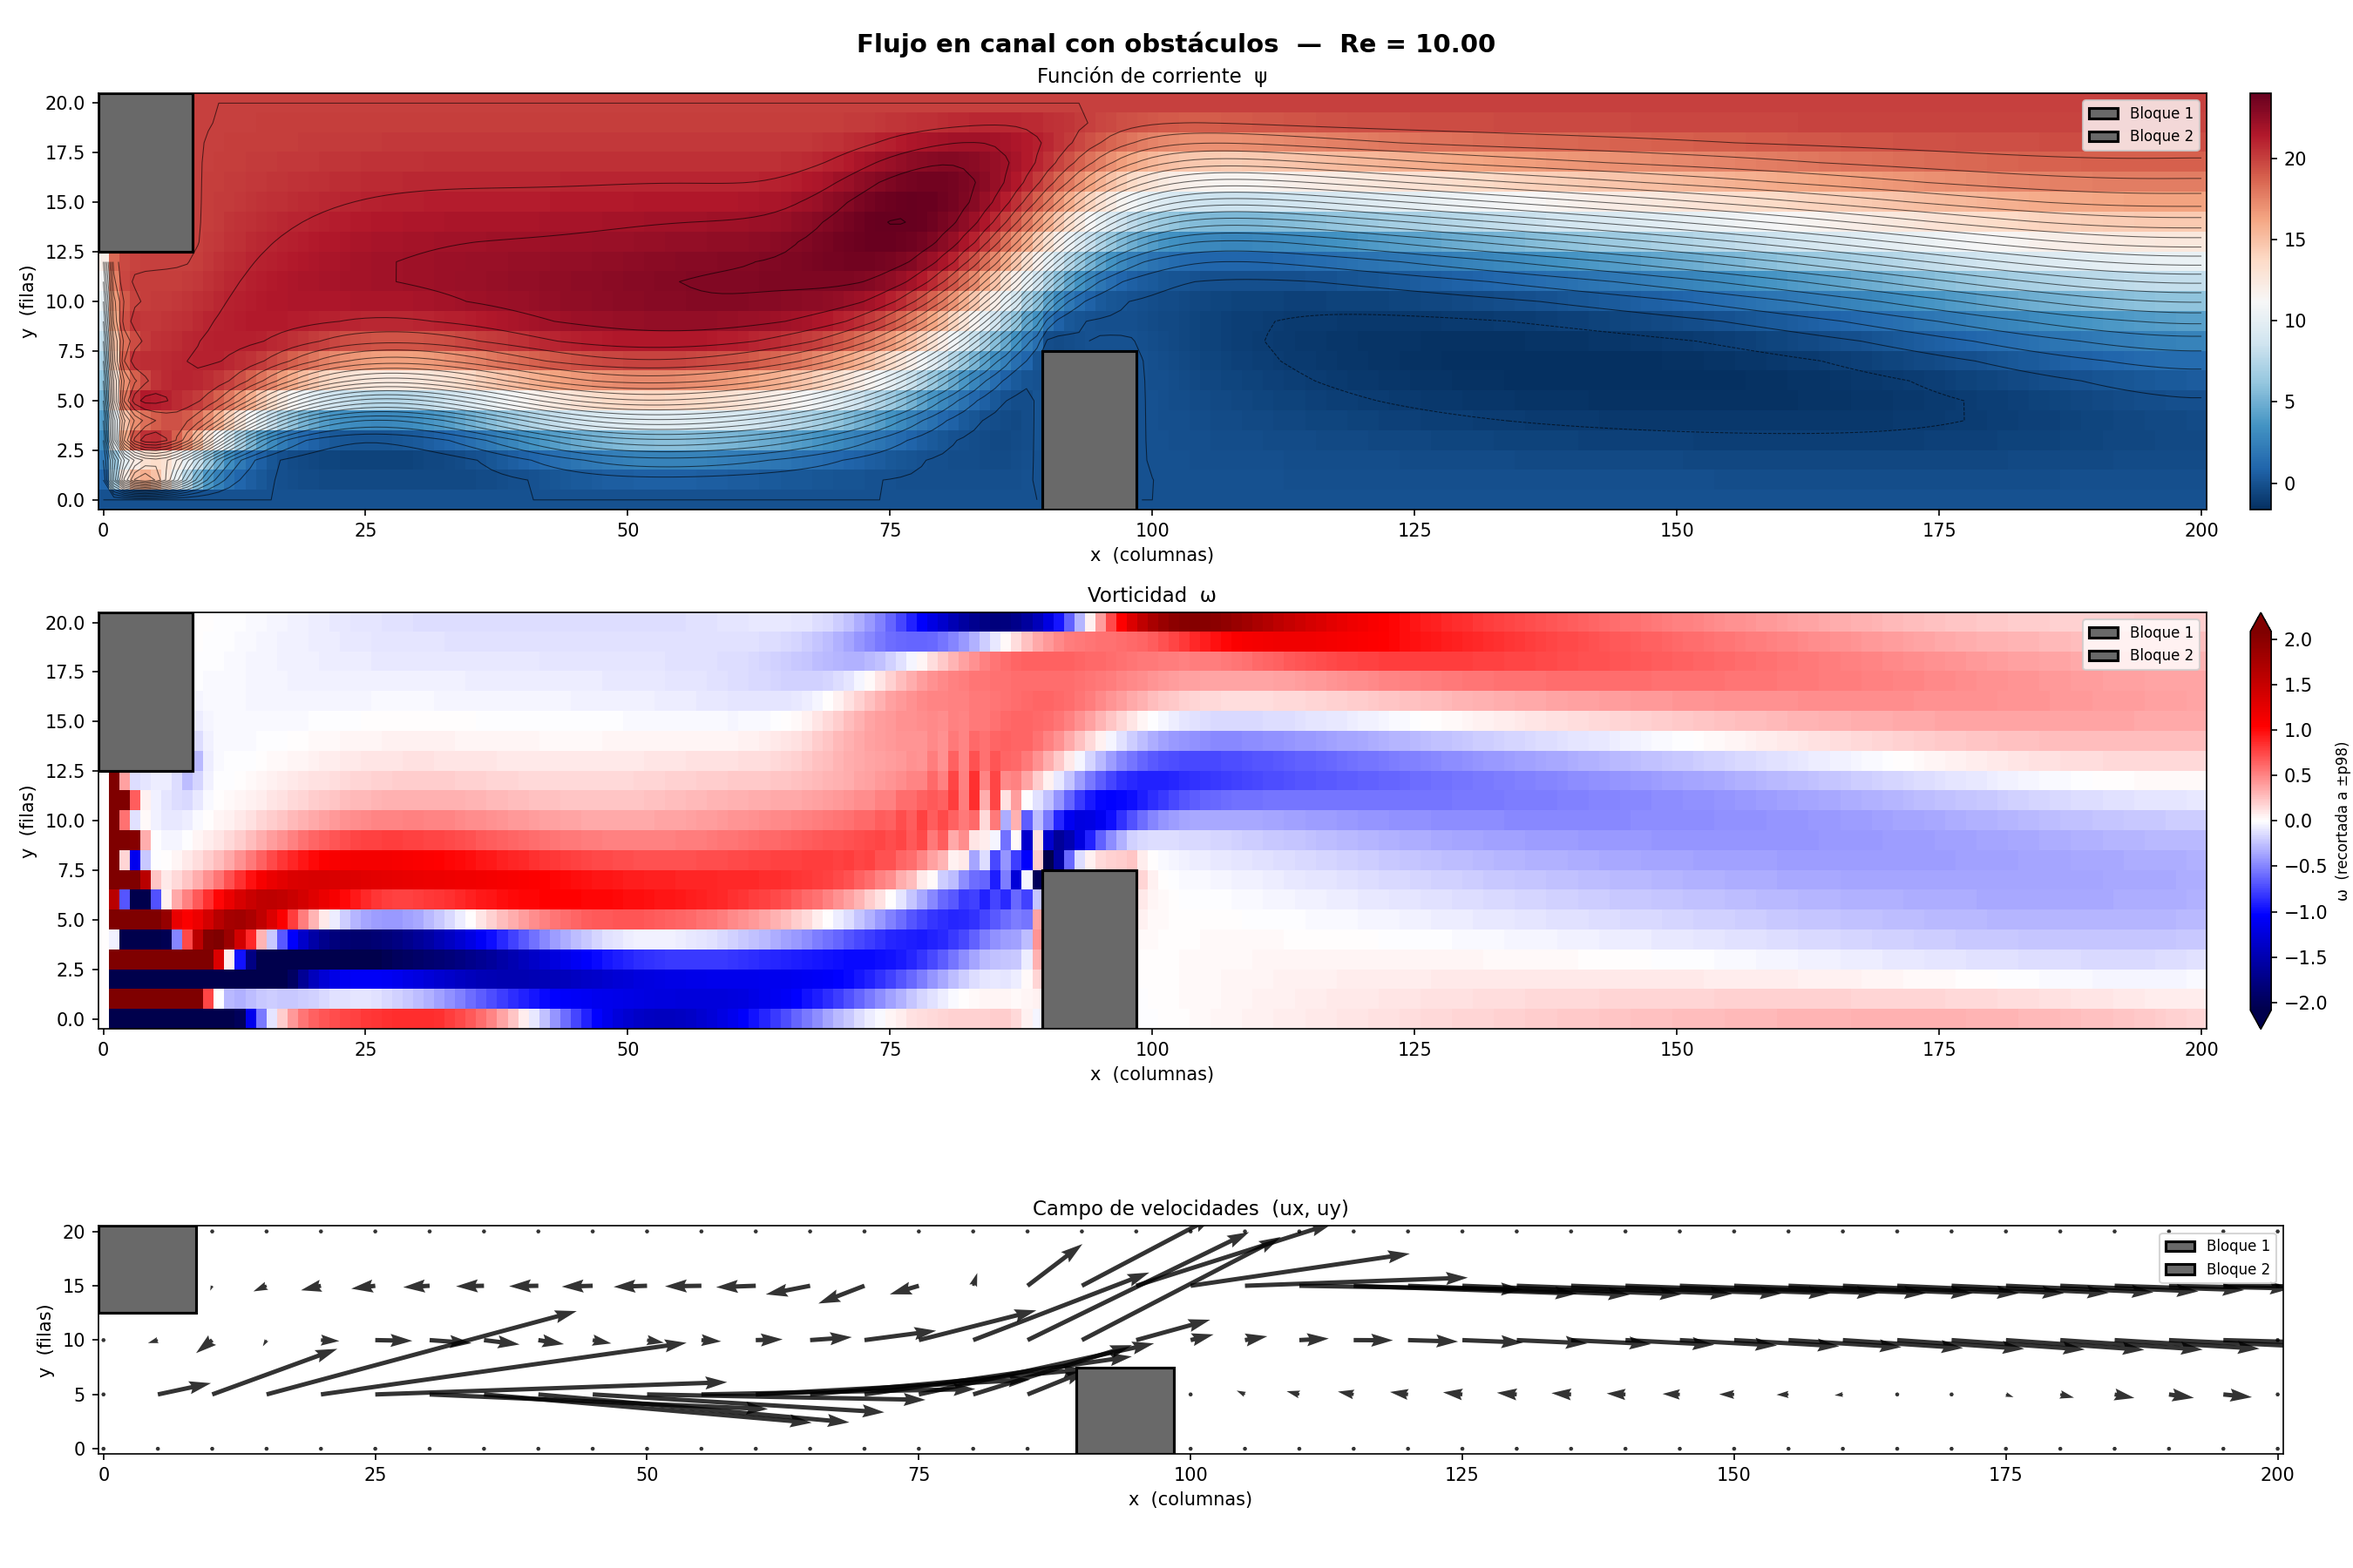
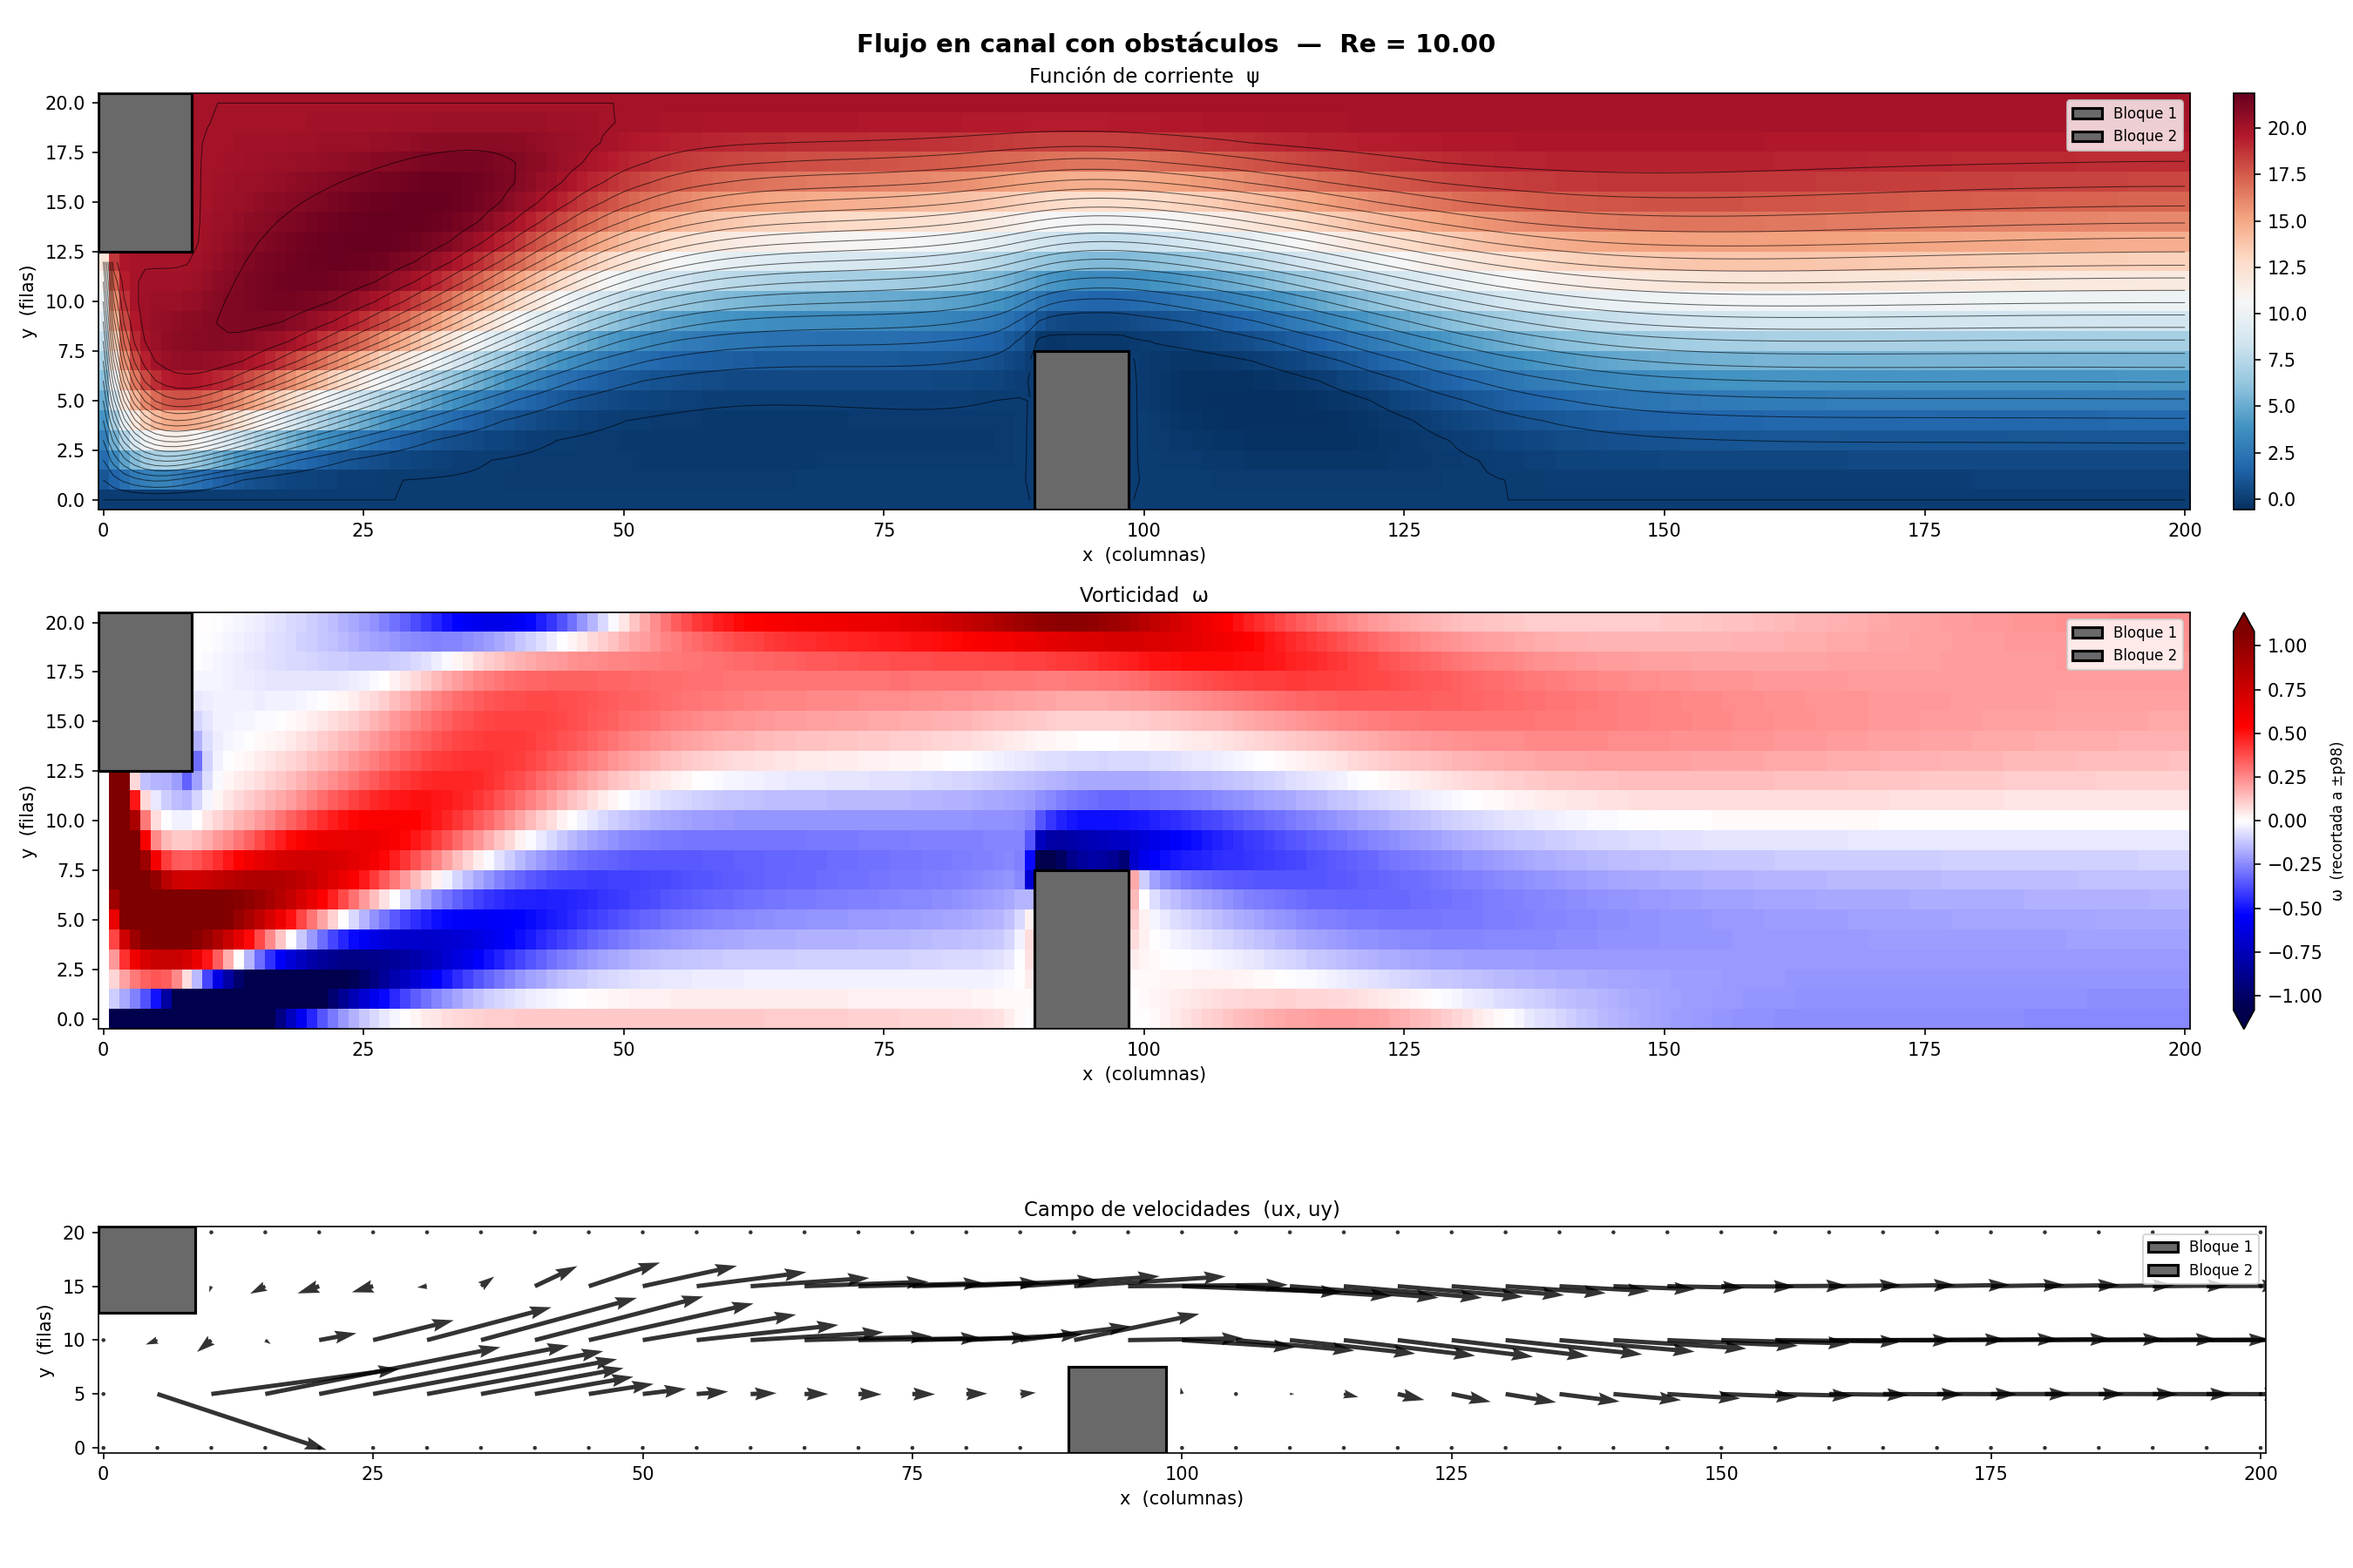
Cambio a sistema Upwind para evitar inestabilidades de Re alto con diferencias centradas

diff --git a/simulacion.py b/simulacion.py
@@ -164,14 +164,20 @@ def compute_F(psi, omega, R):
                     F[rw] = omega[i,j] + (2.0/h**2) * thom_sum / len(contribs)
                 else:
                     F[rw] = omega[i,j]
-            else:  # FREE: transporte de vorticidad
-                dpsi_y = psi[i, j+1] - psi[i, j-1]
-                dpsi_x = psi[i+1, j] - psi[i-1, j]
-                dom_x  = omega[i+1, j] - omega[i-1, j]
-                dom_y  = omega[i, j+1] - omega[i, j-1]
+            else:  # FREE: transporte de vorticidad (convección con UPWIND)
+                # Velocidades: u_x = ∂ψ/∂y,  u_y = -∂ψ/∂x
+                u_x =  (psi[i, j+1] - psi[i, j-1]) / (2.0*h)
+                u_y = -(psi[i+1, j] - psi[i-1, j]) / (2.0*h)
+                # Derivadas de ω "río arriba" según el signo de la velocidad:
+                # así el coeficiente del vecino nunca cambia de signo (M-matriz)
+                # y no aparecen las oscilaciones de las diferencias centradas.
+                dwdx = ((omega[i, j] - omega[i-1, j]) if u_x >= 0.0
+                        else (omega[i+1, j] - omega[i, j])) / h
+                dwdy = ((omega[i, j] - omega[i, j-1]) if u_y >= 0.0
+                        else (omega[i, j+1] - omega[i, j])) / h
+                conv = R * h**2 * (u_x*dwdx + u_y*dwdy)
                 F[rw] = (omega[i+1,j] + omega[i-1,j] + omega[i,j+1] + omega[i,j-1]
-                         - 4.0*omega[i,j]
-                         - (R/4.0)*(dpsi_y*dom_x - dpsi_x*dom_y))
+                         - 4.0*omega[i,j] - conv)
     return F
 
 def compute_J(psi, omega, R):
@@ -218,30 +224,49 @@ def compute_J(psi, omega, R):
                             J[rw, node_id[ii,ij]] += coeff
                 continue
 
-            # FREE: dF^ω — transporte de vorticidad
-            dpsi_y = psi[i, j+1] - psi[i, j-1]
-            dpsi_x = psi[i+1, j] - psi[i-1, j]
-            dom_x  = omega[i+1, j] - omega[i-1, j]
-            dom_y  = omega[i, j+1] - omega[i, j-1]
+            # FREE: dF^ω — transporte de vorticidad (Jacobiana del esquema UPWIND)
+            u_x =  (psi[i, j+1] - psi[i, j-1]) / (2.0*h)
+            u_y = -(psi[i+1, j] - psi[i-1, j]) / (2.0*h)
+            # Selección de nodos "río arriba" (los mismos que usa compute_F).
+            # (xp, xm): pareja (+, -) que forma dwdx = (ω[xp] - ω[xm]) / h
+            if u_x >= 0.0:
+                dwdx = (omega[i, j] - omega[i-1, j]) / h
+                xp, xm = (i, j), (i-1, j)
+            else:
+                dwdx = (omega[i+1, j] - omega[i, j]) / h
+                xp, xm = (i+1, j), (i, j)
+            if u_y >= 0.0:
+                dwdy = (omega[i, j] - omega[i, j-1]) / h
+                yp, ym = (i, j), (i, j-1)
+            else:
+                dwdy = (omega[i, j+1] - omega[i, j]) / h
+                yp, ym = (i, j+1), (i, j)
 
-            J[rw, rw] = -4.0
-            for (ni,nj), val in {
-                (i+1,j): 1.0 - (R/4.0)*dpsi_y,
-                (i-1,j): 1.0 + (R/4.0)*dpsi_y,
-                (i,j+1): 1.0 + (R/4.0)*dpsi_x,
-                (i,j-1): 1.0 - (R/4.0)*dpsi_x,
+            cx = R * h**2 * u_x
+            cy = R * h**2 * u_y
+
+            # dF^ω/dω = Laplaciano  −  ∂conv/∂ω
+            J[rw, rw] += -4.0
+            for ni, nj in [(i+1,j),(i-1,j),(i,j+1),(i,j-1)]:
+                if is_active(ni, nj):
+                    J[rw, node_id[ni,nj] + N_act] += 1.0
+            # ∂conv/∂ω:  conv = cx·dwdx + cy·dwdy,  dwdx=(ω[xp]-ω[xm])/h
+            for (ni, nj), sgn in [(xp, +1.0), (xm, -1.0)]:
+                if is_active(ni, nj):
+                    J[rw, node_id[ni,nj] + N_act] += -(cx/h)*sgn
+            for (ni, nj), sgn in [(yp, +1.0), (ym, -1.0)]:
+                if is_active(ni, nj):
+                    J[rw, node_id[ni,nj] + N_act] += -(cy/h)*sgn
+
+            # dF^ω/dψ = − ∂conv/∂ψ  (conv depende de ψ vía u_x, u_y)
+            for (ni,nj), dconv in {
+                (i, j+1): +R*h*dwdx/2.0,
+                (i, j-1): -R*h*dwdx/2.0,
+                (i+1, j): -R*h*dwdy/2.0,
+                (i-1, j): +R*h*dwdy/2.0,
             }.items():
                 if is_active(ni, nj):
-                    J[rw, node_id[ni,nj] + N_act] += val
-
-            for (ni,nj), val in {
-                (i,j+1): -(R/4.0)*dom_x,
-                (i,j-1): +(R/4.0)*dom_x,
-                (i+1,j): +(R/4.0)*dom_y,
-                (i-1,j): -(R/4.0)*dom_y,
-            }.items():
-                if is_active(ni, nj):
-                    J[rw, node_id[ni,nj]] += val
+                    J[rw, node_id[ni,nj]] += -dconv
 
     return csr_matrix(J)
 

diff --git a/main.py b/main.py
@@ -13,7 +13,7 @@ from simulacion import (re_continuation,
 from visualizacion import plot_results
 
 # ── Parámetro principal ───────────────────────────────────────────────────────
-Re_objetivo = 10   # ← cambia aquí para explorar otros Reynolds
+Re_objetivo = 20   # ← cambia aquí para explorar otros Reynolds
 
 # ── Resolver ─────────────────────────────────────────────────────────────────
 psi_sol, omega_sol = re_continuation(Re_objetivo)

diff --git a/README.md b/README.md
@@ -1,8 +1,10 @@
-# Stream-function / Vorticity 2D Solver
+# Stream-function / Vorticity 2D Solver — rama `upwind-no-centradas`
 
 Solución numérica de Navier–Stokes 2D incompresible en formulación ψ–ω, usando diferencias finitas, Newton–Raphson con *line search* y continuación en Reynolds.
 
-![Ejemplo de resultados](flujo_Re1.png)
+> **Esta rama** discretiza el término convectivo de la ecuación de vorticidad con un esquema **upwind (donor-cell)** en lugar de diferencias centradas. Esto elimina las oscilaciones que aparecían a Reynolds moderado y permite resolver Re más altos en la misma malla. Ver [🌀 Esquema upwind](#-esquema-upwind-esta-rama).
+
+![Ejemplo de resultados](flujo_Re10.png)
 
 ## ⚙ El problema
 
@@ -33,7 +35,76 @@ No todos los nodos son incógnitas. La malla se divide en 6 tipos:
 2. **Jacobiana sparse** (~10 \(N_{\text{act}}\) no ceros, densidad < 0.1 %) en formato CSR, resuelta con `scipy.sparse.linalg.spsolve`.
 3. **Continuación en Reynolds**: arranca desde Re ≈ 0 y sube gradualmente hasta el Re objetivo. Si un paso falla, subdivide automáticamente.
 
+### Discretización del término convectivo
+
+La convección de vorticidad se discretiza con **upwind de 1.er orden**; el resto del operador sigue en diferencias centradas. Detalles, motivación y compromisos en la [sección dedicada](#-esquema-upwind-esta-rama).
+
 ### Condiciones de contorno destacadas
 
 - **Thom en paredes**: los nodos adyacentes a sólidos no resuelven la ecuación de transporte, sino una relación lineal que aproxima la derivada normal.
 - **OUTLET con Neumann**: la frontera de salida se trata como nodo activo, acoplando el nodo de salida con su vecino interior.
+
+## 🌀 Esquema upwind (esta rama)
+
+### El problema que resuelve
+
+La ecuación de transporte de vorticidad tiene un término convectivo no lineal
+\(u_x\,\partial_x\omega + u_y\,\partial_y\omega\), con \(u_x=\partial_y\psi\), \(u_y=-\partial_x\psi\).
+En la rama `main` este término usa **diferencias centradas**. Ese esquema solo es
+estable si el **Reynolds de celda** es pequeño:
+
+$$\mathrm{Re}_{\text{celda}} = R\,|u|\,h < 2$$
+
+Cuando se supera ese umbral (p. ej. a Re = 10, donde \(\mathrm{Re}_{\text{celda}}\)
+llega a ~50 en la mayoría de la malla), el coeficiente que multiplica al vecino
+—`1 − (R/2)·u_x`— **cambia de signo**. La matriz deja de ser una M-matriz, se
+pierde el principio del máximo discreto y aparecen **oscilaciones espurias**:
+vorticidad de signo alternado tipo tablero de ajedrez, saltos bruscos en las
+líneas de corriente y velocidades infladas. Newton–Raphson converge igual (a la
+solución *exacta del sistema discreto*), pero ese sistema discreto es el que está
+mal planteado.
+
+### La solución
+
+Se sustituye la derivada centrada de ω por una derivada **río arriba** (*upwind*),
+eligiendo el vecino según el signo de la velocidad local:
+
+```
+si u_x ≥ 0:  ∂ω/∂x ≈ (ω[i]   − ω[i−1]) / h     (hacia atrás)
+si u_x < 0:  ∂ω/∂x ≈ (ω[i+1] − ω[i])   / h     (hacia adelante)
+```
+
+Con esto los coeficientes fuera de la diagonal **nunca cambian de signo** y la
+diagonal se refuerza: la M-matriz se recupera para **cualquier** Reynolds de celda.
+
+El cambio es **local** a los nodos `FREE` en `compute_F` y `compute_J`; Newton–Raphson,
+la Jacobiana sparse, el *line search*, la continuación en Re, el Poisson de ψ y las
+condiciones Thom quedan intactos. La Jacobiana analítica del nuevo término está
+verificada contra diferencias finitas (error ~1e-8).
+
+### Ventajas ✅
+
+- **Estabilidad incondicional**: sin oscilaciones sin importar \(\mathrm{Re}_{\text{celda}}\). Permite subir el Reynolds en la misma malla.
+- **Respeta cotas físicas**: al conservar la M-matriz, ω no desarrolla máximos/mínimos espurios (a Re = 10, ω se mantiene en `[−6.3, 5.4]` en vez de dispararse a `[−31.7, 20.2]`).
+- **Mejor condicionamiento** → Newton converge en menos iteraciones a Re alto.
+- **Cambio mínimo**: solo el término convectivo; el método global no se altera.
+
+### Desventajas ⚠
+
+- **Precisión de 1.er orden** (\(O(h)\)) en la convección, frente al \(O(h^2)\) del esquema centrado.
+- **Difusión numérica artificial**: suaviza los gradientes finos, ensancha las capas de cortante y **sub-predice la intensidad pico** de la vorticidad y de las recirculaciones. En la práctica el "Reynolds efectivo" resuelto es algo menor que el nominal (la difusión numérica escala con \(|u|\,h\)).
+- **No diferenciable en \(u=0\)** (el *switch* de dirección introduce un *kink*); en la práctica Newton lo tolera bien, pero puede añadir alguna iteración cerca de puntos de estancamiento.
+
+### Posibles mejoras futuras
+
+- **Esquema híbrido / power-law** (Patankar): mezcla centrado y upwind según \(\mathrm{Re}_{\text{celda}}\) para recuperar 2.º orden donde el flujo es lento.
+- **Deferred correction**: iterar upwind (estable) con una corrección centrada explícita para acercarse a 2.º orden manteniendo estabilidad.
+- **Refinar la malla** para bajar \(\mathrm{Re}_{\text{celda}}\) y reducir la difusión numérica.
+
+| | `main` (centrado) | `upwind-no-centradas` |
+|---|---|---|
+| Orden de precisión (convección) | 2.º \(O(h^2)\) | 1.er \(O(h)\) |
+| Estabilidad | solo si \(\mathrm{Re}_{\text{celda}}<2\) | incondicional |
+| Difusión numérica | nula | sí (∝ \(\|u\|\,h\)) |
+| Re alcanzable (malla 200×20) | bajo (≈ 2) | moderado (≥ 10) |
+| Oscilaciones a Re = 10 | sí | no |
